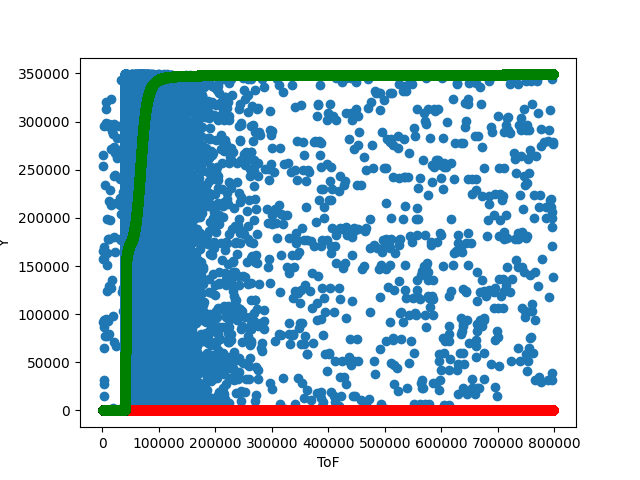
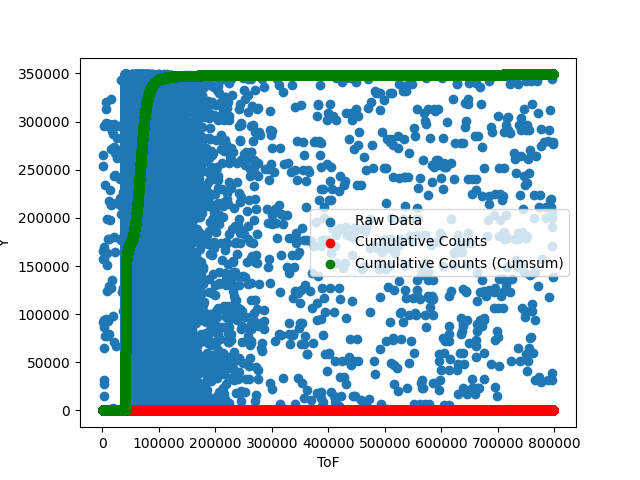
Peak finder worki

Changed region(s): [[0.4688, 0.4062, 0.9062, 0.5938]]

diff --git a/timeWalk_discret.py b/timeWalk_discret.py
@@ -2,6 +2,8 @@ from Scripts_Radiopico.ReadBinaryWeeroc import *
 import numpy as np
 import matplotlib.pyplot as plt
 from tools import *
+from scipy.stats import gaussian_kde
+from scipy.stats import exponnorm
 
 def round_to_nearest_step(values, step):
     """
@@ -10,20 +12,62 @@ def round_to_nearest_step(values, step):
 
     return np.round(values / step) * step
 
+
+def emg_curve(mu, sigma, tau, xmin=None, xmax=None, n=1000):
+    """
+    Generate an exponentially modified Gaussian (EMG) curve.
+
+    Parameters
+    ----------
+    mu : float
+        Mean of the Gaussian component.
+    sigma : float
+        Standard deviation of the Gaussian component.
+    tau : float
+        Decay constant of the exponential component.
+    xmin, xmax : float, optional
+        Plot range. If None, chosen automatically.
+    n : int
+        Number of points.
+
+    Returns
+    -------
+    x, y : np.ndarray
+        Coordinates of the EMG PDF.
+    """
+
+    K = tau / sigma
+
+    if xmin is None:
+        xmin = mu - 5 * sigma
+
+    if xmax is None:
+        xmax = mu + 5 * sigma + 5 * tau
+
+    x = np.linspace(xmin, xmax, n)
+    y = exponnorm.pdf(x, K=K, loc=mu, scale=sigma)
+
+    return x, y
+
+def emg_samples(mu, sigma, tau, size=10000):
+    K = tau / sigma
+    return exponnorm.rvs(K=K, loc=mu, scale=sigma, size=size)
+
 if __name__ == "__main__":
 
-    tot, tof, size = readBinaryWeerocFileWithPicoCalibrated(
+    
+    tot, data, size = readBinaryWeerocFileWithPicoCalibrated(
         "~/Documents/data/measures/21_avril/data_section_2_Btot49_Btoa12_Gain10_Thr700_56-65V_Freq80000_60s.bin"
     )
+    
+    '''
     tofBin = 12
     tofStep = 0.5
-
     plt.scatter(
         tof,
         [p for p in range(len(tof))],
         label = "Raw Data"
     )
-
 
     sorted_tof = np.sort(tof)
     discrete_counts = { rounded_s: 0 for rounded_s in np.arange(round_to_nearest_step(sorted_tof[0], tofStep), round_to_nearest_step(sorted_tof[-1], tofStep) + 1, tofStep) }
@@ -32,23 +76,95 @@ if __name__ == "__main__":
         rounded_s = float(round_to_nearest_step(s, tofStep))
 
         discrete_counts[rounded_s] += 1
-
+    
     plt.scatter(
         list(discrete_counts.keys()),
         list(discrete_counts.values()),
         label = "Cumulative Counts",
         color = "red"
     )
+    '''
+
+    tofStep = 0.5
+    #data = emg_samples(mu=1000, sigma=200, tau=300, size=10000)
+
+    kde = gaussian_kde(data)
+
+    x_kde = np.linspace(min(data), max(data), 1000)
+    y_kde =  kde(x_kde)
+    y_kde = (y_kde / np.max(y_kde))
+
+    '''
+    plt.scatter(
+        data,
+        [p for p in range(len(data))],
+        label = "Raw Data",
+        alpha = 0.5,
+        s = 5,
+        edgecolors = "none"
+    )
+    '''
+
+    plt.scatter(
+        x_kde,
+        y_kde,
+        label = "KDE",
+        color = "red",
+        alpha = 0.5,
+        s = 5,
+        edgecolors = "none"
+    )
+
+    sorted_tof = np.sort(data)
+    discrete_counts = { rounded_s: 0 for rounded_s in np.arange(round_to_nearest_step(sorted_tof[0], tofStep), round_to_nearest_step(sorted_tof[-1], tofStep) + 1, tofStep) }
+
+    for s in sorted_tof:
+        rounded_s = float(round_to_nearest_step(s, tofStep))
+
+        discrete_counts[rounded_s] += 1
 
     cumulative_counts = np.cumsum(list(discrete_counts.values()))
 
     plt.scatter(
         list(discrete_counts.keys()),
-        cumulative_counts,
-        label = "Cumulative Counts (Cumsum)",
-        color = "green"
+        cumulative_counts/np.max(cumulative_counts),
+        label = "Normalized Cumulative Counts (Cumsum)",
+        alpha = 0.5,
+        s = 5,
+        edgecolors = "none"
     )
+
+    derivative = np.diff(y_kde) / np.diff(x_kde)
+    normale_derivative = derivative/np.max(derivative)
+
+    plt.scatter(
+        x_kde[:-1],
+        normale_derivative,
+        label = "Normalized Derivative of Cumulative Counts",
+    )
+
+    threshold = -0.008
+
+    peak_index = None
+
+    for index, value in enumerate(normale_derivative[:100]):
+        print(f"{x_kde[index]} : {value}")
+        
+        if value < threshold:
+            peak_index = index
+            break
+
+
+    peak_estimated_x = x_kde[peak_index]
+
+    print("Estimated Peak ToF:", peak_estimated_x)
+    print("KDE Peak ToF:", x_kde[np.argmax(y_kde)])
+    print(f"Difference between estimated peak and true peak: {abs(peak_estimated_x - x_kde[np.argmax(y_kde)])}")
+
+
 
     plt.ylabel("Y")
     plt.xlabel("ToF")
-    plt.savefig("scatter_plot.png")
+    plt.legend()
+    plt.grid(True)
+    plt.savefig("peak_finder.png")